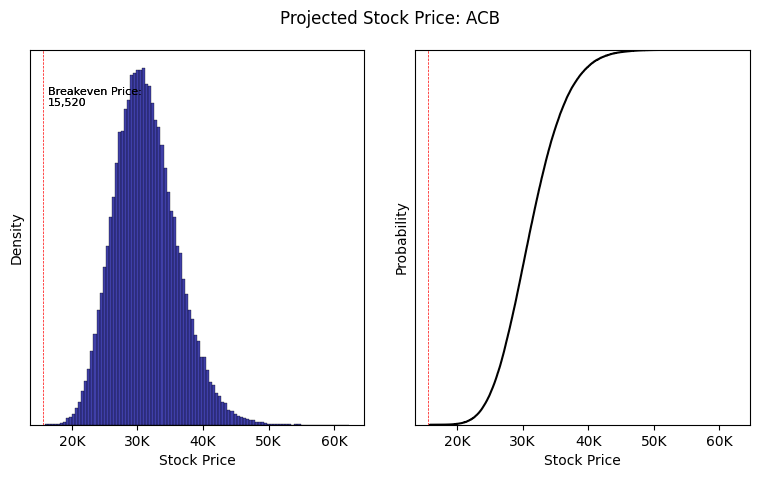
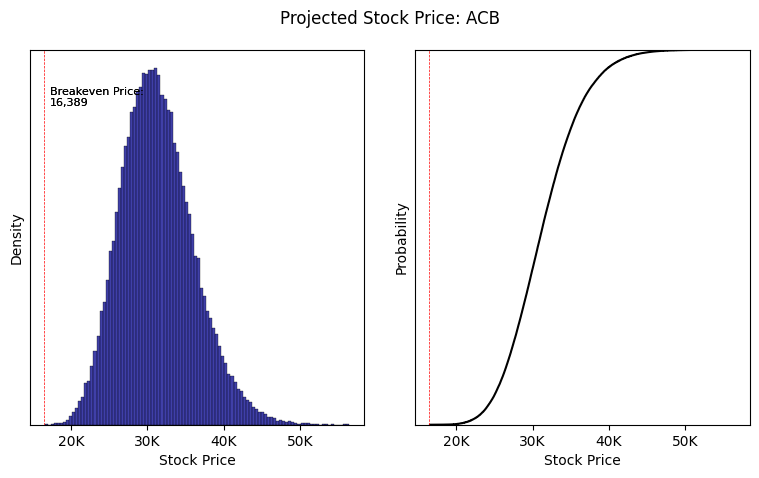
post_breakeven_price

diff --git a/breakeven_price/monte_carlo.py b/breakeven_price/monte_carlo.py
@@ -206,7 +206,7 @@ def monte_carlo(ticker, days=66, alpha=0.01,
             std = np.std(df['logr'])
             deg_free = df['logr'].count() - 1
             loc = mean
-            scale = std/(df['logr'].count())**0.5
+            scale = std
             nc = mean*(1-3/(4*deg_free-1))
 
             logr = sc.stats.nct.rvs(deg_free, nc, loc, scale,
@@ -279,7 +279,7 @@ def monte_carlo(ticker, days=66, alpha=0.01,
             std = np.std(df['change_logr'])
             deg_free = df['change_logr'].count() - 1
             loc = mean
-            scale = std/(df['change_logr'].count())**0.5
+            scale = std
             nc = mean*(1-3/(4*deg_free-1))
 
             change_logr = sc.stats.nct.rvs(deg_free, nc, loc, scale,
